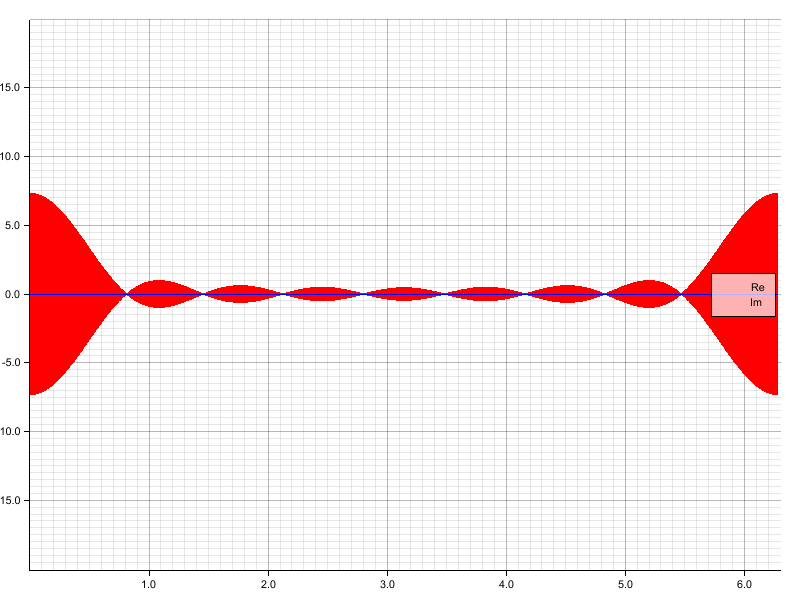
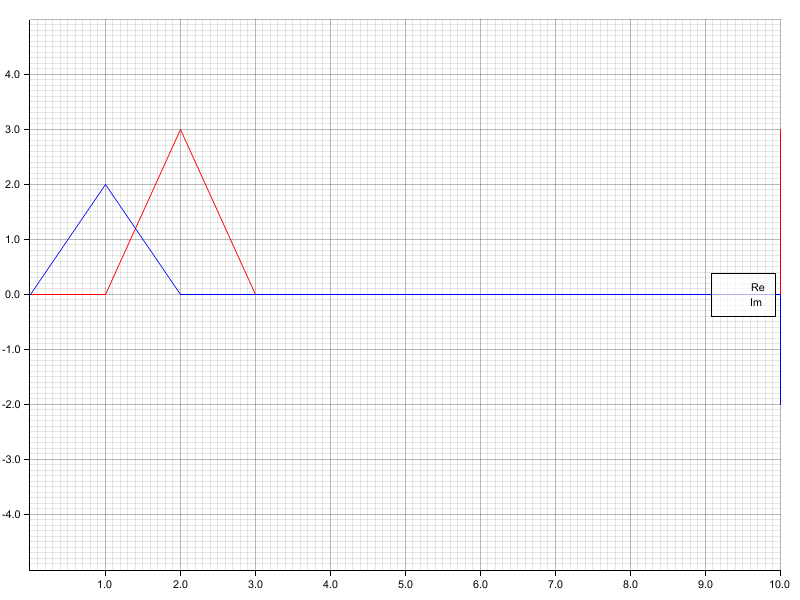
simple example

Changed region(s): [[0.0, 0.03, 1.0, 0.99], [0.9688, 0.96, 1.0, 0.99]]

diff --git a/src/main.rs b/src/main.rs
@@ -13,26 +13,17 @@ fn main() -> Result<(), Box<dyn std::error::Error>> {
         .margin(20)
         .x_label_area_size(10)
         .y_label_area_size(10)
-        .build_ranged(0.0f64..6.3f64, -20.0f64..20.0f64)?;
+        .build_ranged(0.0f64..10.0f64, -5.0f64..5.0f64)?;
 
     chart.configure_mesh().draw()?;
 
-    let tr: Vec<Complex> = fft(
-        |x| {
-            if -1. <= x && x <= 1. {
-                x.cos()
-            } else {
-                0.
-            }
-        },
-        12,
-    );
+    let tr: Vec<Complex> = fft(|x| 2. * x.sin() + 3. * (2. * x).cos(), 12);
 
     chart
         .draw_series(LineSeries::new(
             tr.iter()
                 .enumerate()
-                .map(|(i, x)| (2. * std::f64::consts::PI * i as f64 / 4096.0, x.re)),
+                .map(|(i, &x)| (i as f64, x.re / 2048.)),
             &RED,
         ))?
         .label("Re");
@@ -41,7 +32,7 @@ fn main() -> Result<(), Box<dyn std::error::Error>> {
         .draw_series(LineSeries::new(
             tr.iter()
                 .enumerate()
-                .map(|(i, x)| (2. * std::f64::consts::PI * i as f64 / 4096.0, x.im)),
+                .map(|(i, &x)| (i as f64, x.im / 2048.)),
             &BLUE,
         ))?
         .label("Im");
@@ -61,8 +52,6 @@ fn main() -> Result<(), Box<dyn std::error::Error>> {
     println!("{:?}", c.norm());
     println!("{:?}", c.norm2());
     println!("{:?}", c.exp());
-
-    println!("{:?}", fft(|x| x.sin(), 5));
 
     Ok(())
 }

diff --git a/src/fft.rs b/src/fft.rs
@@ -8,7 +8,10 @@ where
     let n = 2u32.pow(l) as usize;
     let mut x = vec![vec![Complex::new(0.0, 0.0); n]; (l + 1) as usize];
     for i in 0..n {
-        x[0][i] = Complex::new(func(1000. * (i as f64) / (n as f64) - 500.), 0.0);
+        x[0][i] = Complex::new(
+            func(2. * std::f64::consts::PI * (i as f64) / (n as f64)),
+            0.0,
+        );
     }
 
     let mut p = n >> 1;
@@ -28,9 +31,5 @@ where
         r <<= 1;
     }
 
-    let mut ret = vec![Complex::new(0.0, 0.0); n];
-    for i in 0..n {
-        ret[i] = x[l as usize][i];
-    }
-    ret
+    x[l as usize].clone()
 }

diff --git a/src/complex.rs b/src/complex.rs
@@ -85,3 +85,12 @@ impl Div for Complex {
         }
     }
 }
+impl Neg for Complex {
+    type Output = Complex;
+    fn neg(self) -> Complex {
+        Complex {
+            re: -self.re,
+            im: -self.im,
+        }
+    }
+}
